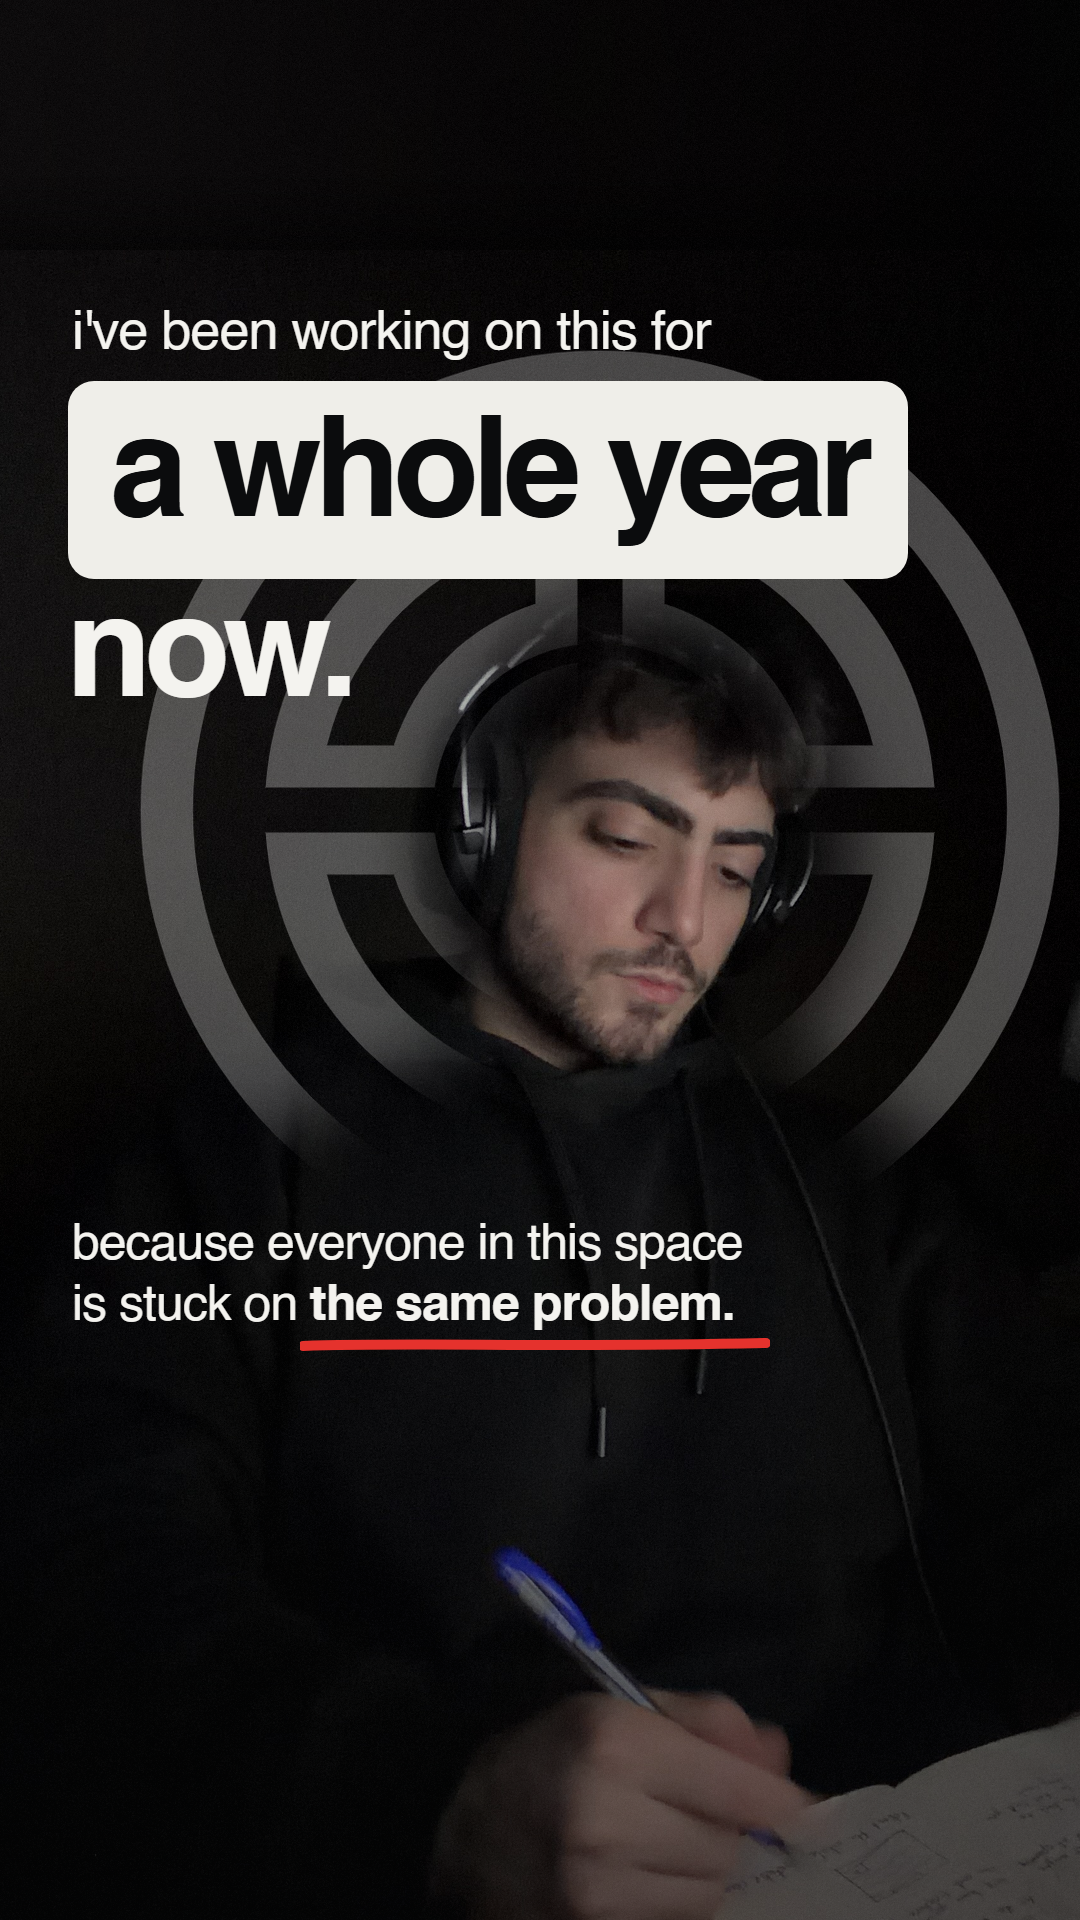
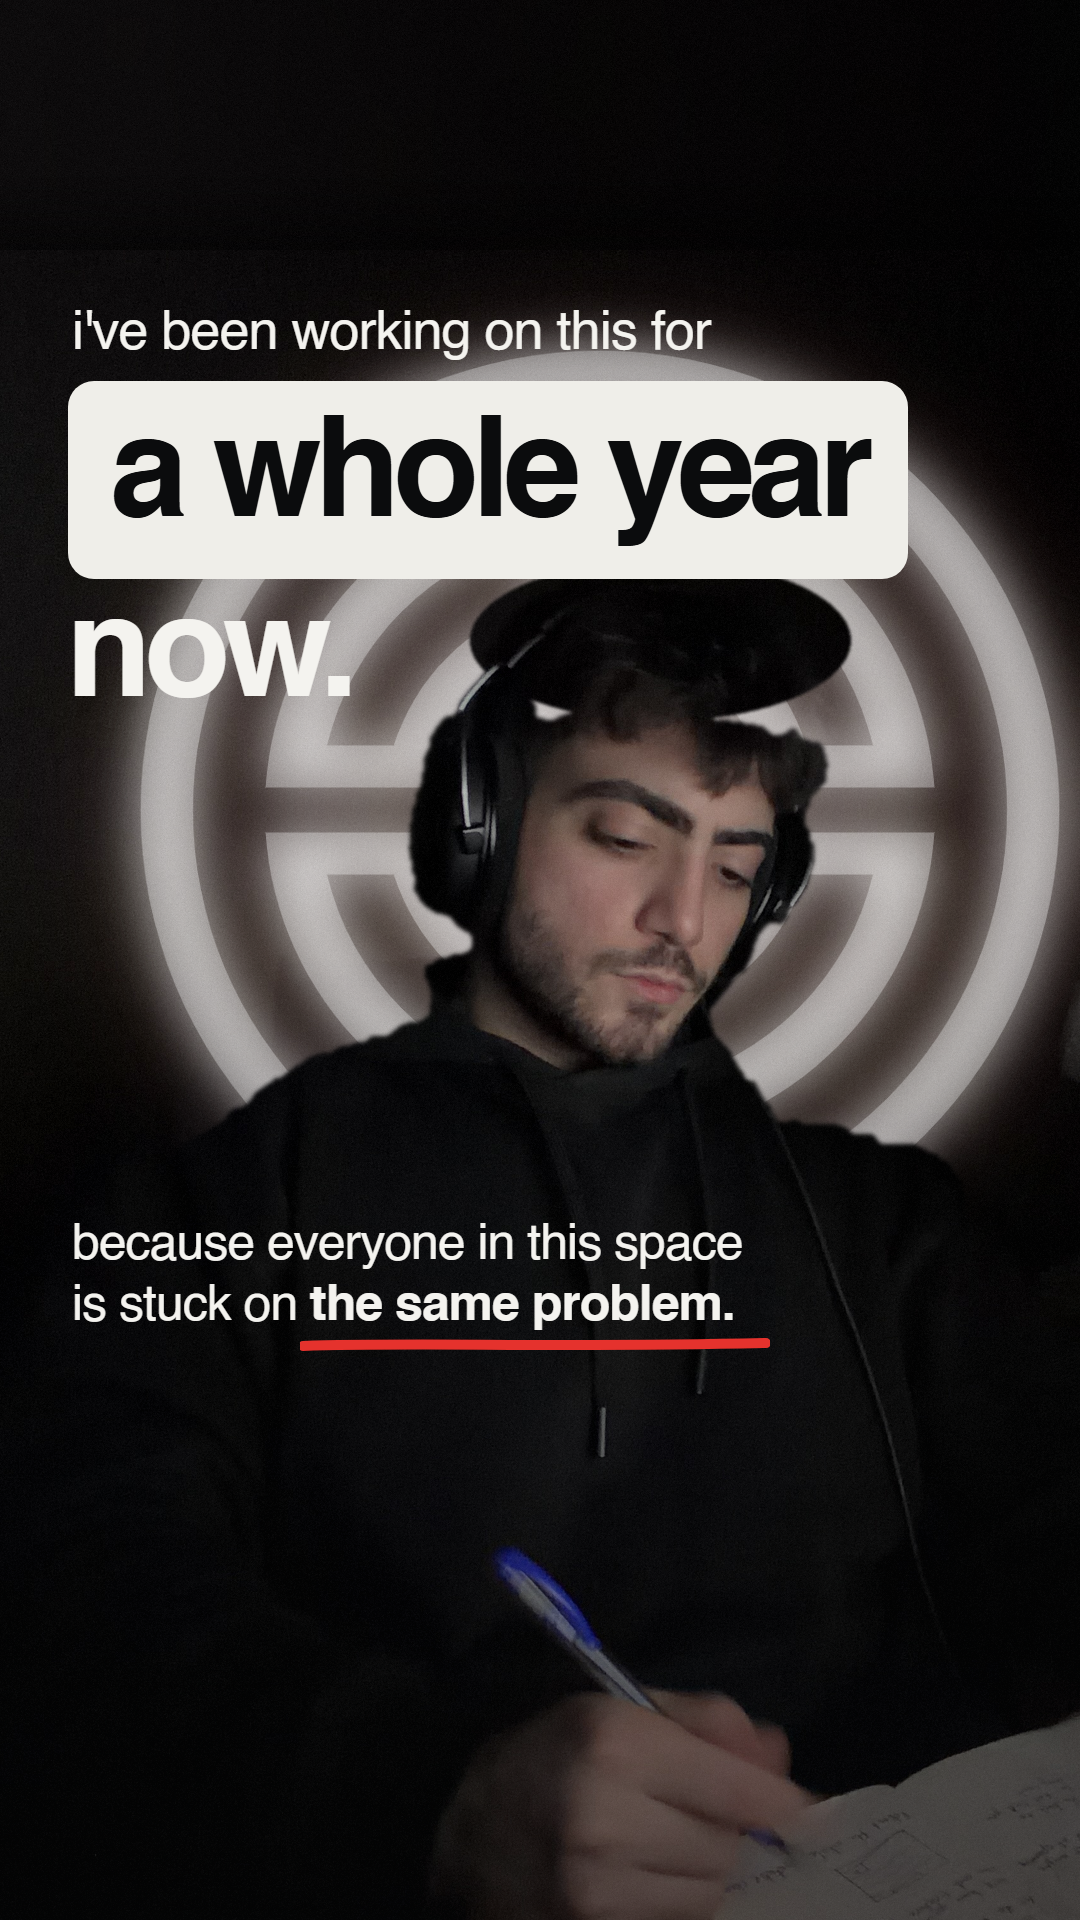
auto: checkpoint 2026-10-07 17:56:48

Changed region(s): [[0.5806, 0.2188, 1.0, 0.625], [0.0917, 0.2812, 0.55, 0.5938], [0.3361, 0.1562, 0.7639, 0.2188]]

diff --git a/output/highlight-saas/claude-v2/final1.py b/output/highlight-saas/claude-v2/final1.py
@@ -1,0 +1,48 @@
+"""Slide 1 with the glowing white logo (variant C) truly behind the subject, using the GrabCut matte.
+Also re-renders slides 3 and 12 without the faint background logo (logo appears on slide 1 and the video slide only)."""
+import os, re
+import numpy as np
+from PIL import Image, ImageDraw, ImageFilter, ImageChops
+import build5 as b
+
+W, H = b.W, b.H
+
+
+def bg1():
+    base = b.extend_top(b.cover('14-IMG_8690.JPEG', (0.41, 0.5)), 250)
+    m = Image.open(os.path.join(b.HERE, 'img', 'matte1.png')).convert('L')
+    d = ImageDraw.Draw(m)
+    d.ellipse((470, 560, 850, 720), fill=255)          # restore the top of the hair that the segmenter clipped
+    m = m.filter(ImageFilter.GaussianBlur(1.4))
+
+    flat = Image.open(b.MARKPNG).convert('RGBA').resize((980, 980), Image.LANCZOS)
+    a = Image.new('L', (W, H), 0)
+    a.paste(flat.split()[3], (110, 320))
+    bloom_a = a.filter(ImageFilter.GaussianBlur(26)).point(lambda v: int(v * .75))
+    white = Image.new('L', (W, H), 255)
+    bloom = Image.merge('RGBA', (white, white, white, bloom_a))
+    sharp = Image.merge('RGBA', (white, white, white, a.point(lambda v: int(v * .34))))
+    warm = Image.new('RGB', (W, H), (150, 96, 78))
+    wa = a.filter(ImageFilter.GaussianBlur(60)).point(lambda v: int(v * .5))
+    scene = ImageChops.screen(base, ImageChops.multiply(warm, Image.merge('RGB', (wa, wa, wa))))
+    scene = Image.alpha_composite(Image.alpha_composite(scene.convert('RGBA'), bloom), sharp).convert('RGB')
+    out = Image.composite(base, scene, m)               # subject in front, logo behind
+    p = os.path.join(b.HERE, 'img', 's1.png')
+    b.dither(out).save(p)
+    return p.replace('\\', '/')
+
+
+if __name__ == '__main__':
+    b.prep_slide1 = bg1
+    b.render('01', b.slide1())
+    # drop the faint background logo from 3 and 12
+    src = open(os.path.join(b.HERE, 'build5.py'), encoding='utf-8').read()
+    src = re.sub(r'\n\s*<img class="abs" src="\{MARK_URL\}"[^\n]*', '', src)
+    open(os.path.join(b.HERE, 'build5.py'), 'w', encoding='utf-8').write(src)
+    import importlib; importlib.reload(b)
+    b.render('03', b.slide3()); b.render('12', b.slide12())
+    sheet = Image.new('RGB', (W * 3 // 2 + 40, H // 2), (20, 20, 20))
+    for i, n in enumerate(['01', '03', '12']):
+        sheet.paste(Image.open(os.path.join(b.HERE, n + '.png')).convert('RGB').resize((W // 2, H // 2)), (i * (W // 2 + 20), 0))
+    sheet.save(os.path.join(b.HERE, 'sheet.jpg'), quality=90)
+    print('ok')
